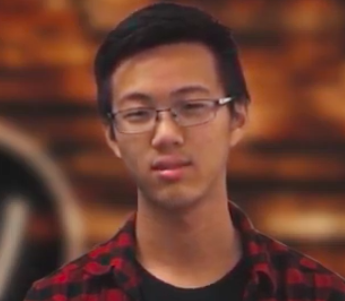
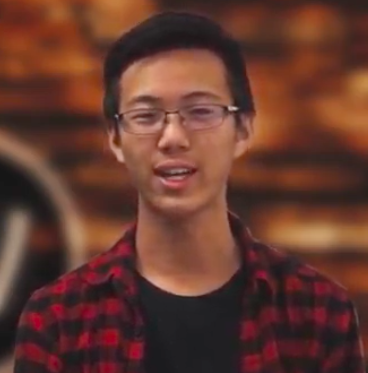
fixed student pics

diff --git a/team.html b/team.html
@@ -100,7 +100,7 @@
 								<!--NIKLAS START-->
 								<div class="at-column">
 									<div class="at-user">
-										<div class="at-user__avatar"><img src="images/students/terry-j3.jpg"/></div>
+										<div class="at-user__avatar"><img src="images/students/terry-j.jpg"/></div>
 										<div class="at-user__name">Terry Ju</div>
 										<div class="at-user__title">Student</div>
 										<ul class="at-social">
@@ -136,7 +136,7 @@
 								<!--NIKLAS START-->
 								<div class="at-column">
 									<div class="at-user">
-										<div class="at-user__avatar"><img src="images/students/nick-h2.jpg"/></div>
+										<div class="at-user__avatar"><img src="images/students/nick-h.jpg"/></div>
 										<div class="at-user__name">Nick Hewko</div>
 										<div class="at-user__title">Student</div>
 										<ul class="at-social">
@@ -196,7 +196,7 @@
 								<!--NIKLAS START-->
 								<div class="at-column">
 									<div class="at-user">
-										<div class="at-user__avatar"><img src="images/students/alec-s2.jpg"/></div>
+										<div class="at-user__avatar"><img src="images/students/alec-s.jpg"/></div>
 										<div class="at-user__name">Alec Stephens</div>
 										<div class="at-user__title">Student</div>
 										<ul class="at-social">
@@ -221,7 +221,7 @@
 								<!--MORITZ START-->
 								<div class="at-column">
 									<div class="at-user">
-										<div class="at-user__avatar"><img src="images/students/mary-w3.jpg"/></div>
+										<div class="at-user__avatar"><img src="images/students/mary-w.jpg"/></div>
 										<div class="at-user__name">Mary Wang</div>
 										<div class="at-user__title">Student</div>
 										<ul class="at-social">
@@ -230,7 +230,7 @@
 								</div>
 								<div class="at-column">
 									<div class="at-user">
-										<div class="at-user__avatar"><img src="images/students/jason-t4.jpg"/></div>
+										<div class="at-user__avatar"><img src="images/students/jason-t.jpg"/></div>
 										<div class="at-user__name">Jason Tao</div>
 										<div class="at-user__title">Student</div>
 										<ul class="at-social">
@@ -261,7 +261,7 @@
 								<div class="at-column">
 									<div class="at-user">
 										<div class="at-user__avatar"><img src="images/students/maddy.jpg"/></div>
-										<div class="at-user__name">Maddy</div>
+										<div class="at-user__name">Madeleine Pavelic</div>
 										<div class="at-user__title">Student</div>
 										<ul class="at-social">
 
